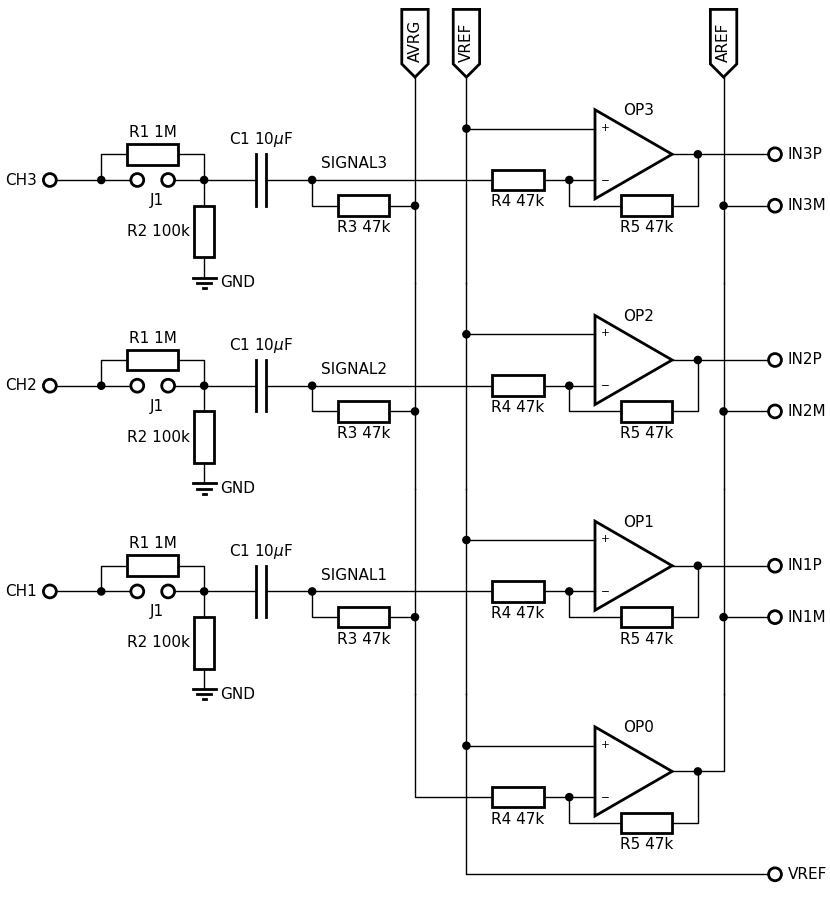
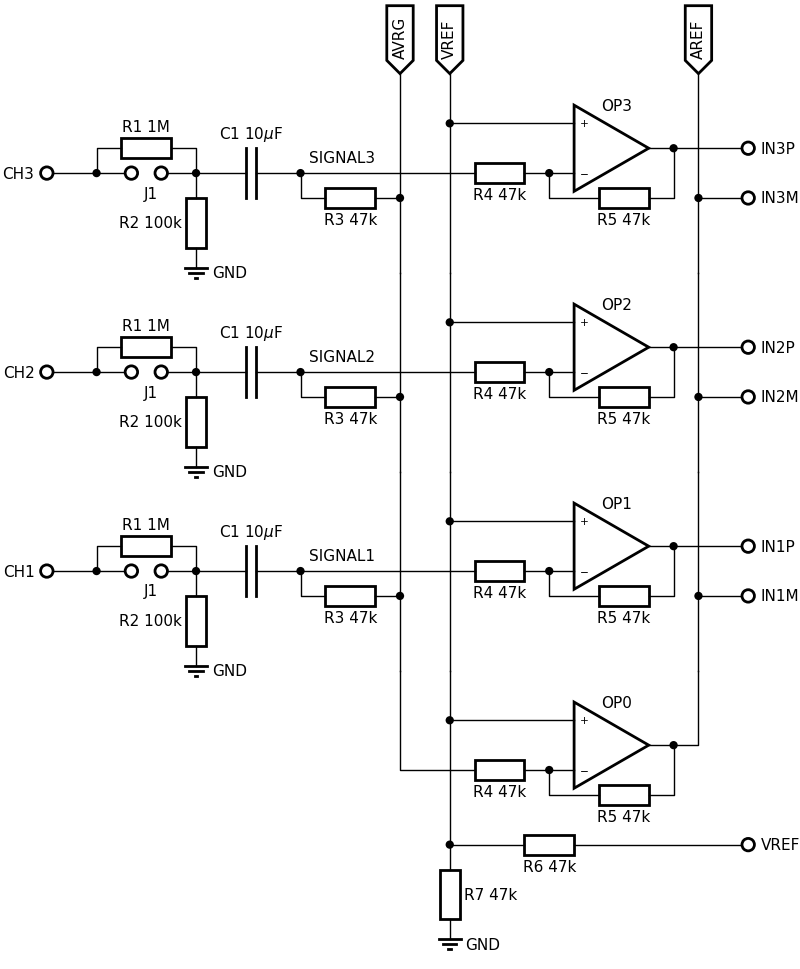
[R5.0] made proper differential amplifiers

Changed region(s): [[0.0, 0.0933, 1.0, 0.9956], [0.4688, 0.0, 0.5938, 0.0933], [0.8438, 0.0, 0.9062, 0.0933]]

diff --git a/R5.0/amplifiers.py b/R5.0/amplifiers.py
@@ -8,6 +8,8 @@ R2 = '100k'
 R3 = '47k'
 R4 = R3
 R5 = R3
+R6 = R3
+R7 = R3
 C1 = '10$\\mu$F'
 
 
@@ -85,12 +87,16 @@ def refamp(pos):
     ax.connect((nc, r4l, None, r4r, ng1, pn))
 
     npr = ax.node(pp.left(2.5))
-    nr1 = npr.up(1)
     #nr1 = ax.bus(npr.up(1), 'VREF', align='north')
-    ax.connect((nr1,  npr, pp))
+    ax.connect((npr.up(1), npr, pp))
+    nrg = ax.node(npr.down(2.5))
+    r6b, r6t = ax.resistance_v(nrg.down(1), f'R7 {R7}', 'right')
+    gndr = ax.ground(r6b.down(0.5), 'GND', 'right')
+    ax.connect((npr, nrg, r6t, None, r6b, gndr))
     #nr2 = ax.bus(npr.down(2), 'VREF', align='south')
-    nr2 = ax.pin(npr.down(2.5).right(6), 'VREF', align='right')
-    ax.connect((npr,  nr2))
+    r7l, r7r = ax.resistance_h(nrg.right(2), f'R6 {R6}', 'bottom')
+    nr2 = ax.pin(r7r.right(3.5), 'VREF', align='right')
+    ax.connect((nrg, r7l, None, r7r, nr2))
 
     ng2 = ax.node(po.right(0.5))
     no = ng2.right(0.5).up(1.5)
@@ -104,14 +110,14 @@ def refamp(pos):
 
 plt.rcParams['font.size'] = 11
 
-fig, ax = plt.subplots(figsize=(8.3, 9))
+fig, ax = plt.subplots(figsize=(8, 9.7))
 fig.subplots_adjust(nomargins=True)
 ax.show_spines('')
 #ax.set_xticks_off()
 #ax.set_yticks_off()
 
 ax.set_xlim(0, 16)
-ax.set_ylim(-2.5, 15)
+ax.set_ylim(-4.5, 15)
 ax.set_aspect('equal')
 
 preamp((12, 12), 2, True)

diff --git a/R5.0/README.md b/R5.0/README.md
@@ -94,7 +94,8 @@ Teensy pins:
 - R2=100k for referencing the floating signal.
 - C1=10uF decoupling capacitor.
 - [TLV9002](tlv9002.pdf) opamp.
-- R4=10k and R5=10k for a 1x gain (gain=R5/R4).
+- Differential amplifiers with output voltage VREF - SIGNALx
+- R4=R6=47k and R5=R7=47k for a 1x gain (gain=R5/R4).
 - no low-pass filter, this is handled by the TLV chip.
 - each signal is amplified relative to VREF.
 - via R3 the AVRG reference measures the average of all the input signals.
@@ -103,9 +104,8 @@ Teensy pins:
 
 ### TODO
 
-- measure the inverting amplifier: how does it deal with negative differntial input? Reference VREF or GND?
+- measure the inverting amplifier: how does it deal with negative differential input? Reference VREF or GND?
 - measure input of TLV320ADC in DC and AC: how does it deal with negative inputs?
-- have alternatives for VREF ready (resistance/short circuit to ground)?
 
 ![amplifiers](images/amplifiers.png)
 
